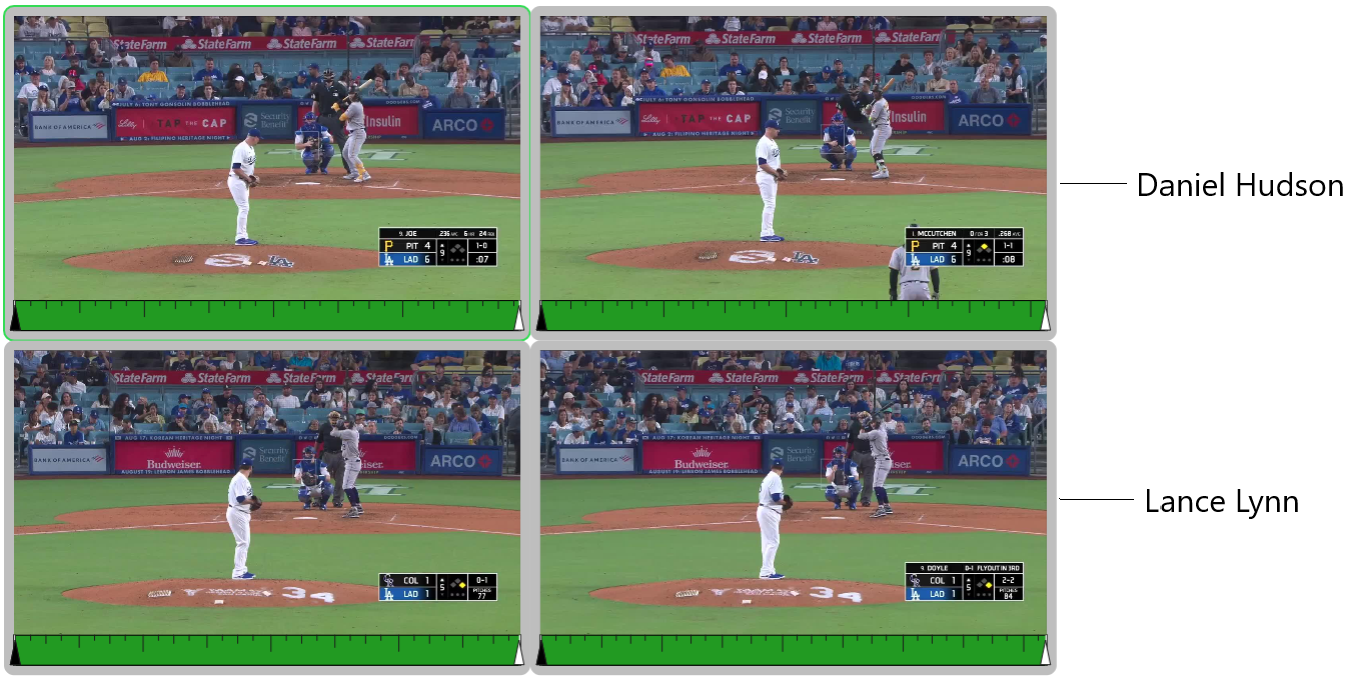
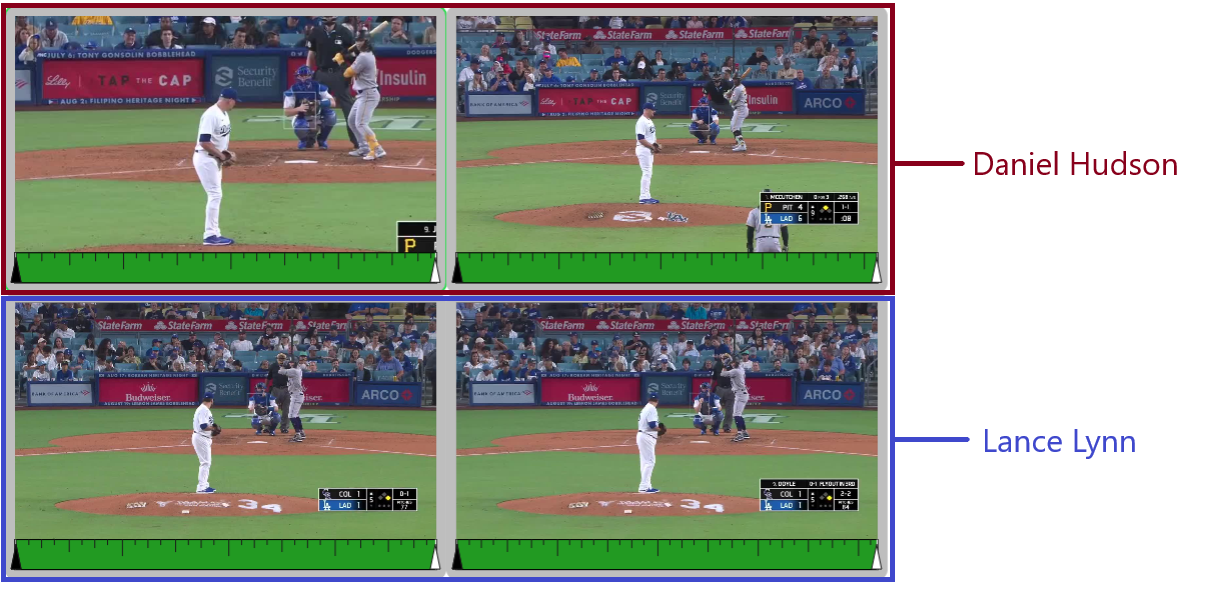
Reworked tutorial tasks to be more clear and engaging. Removed playing after scrubbing, too.

diff --git a/nodejs-timelapse-project/tutorials/tutorial-3.js b/nodejs-timelapse-project/tutorials/tutorial-3.js
@@ -1,55 +1,74 @@
 const tutorial3 = `
 <h1>Tutorial 3 - Pitch Tunneling & Break</h1>
 <p>
-You’re an MLB (major league baseball) analyst that has been recruited to analyze pitch tunneling and compare the break in pitches thrown by different players.
-Pitch tunneling is the idea that if the trajectory of two different pitches remains the same for long enough, then it will be harder for the batter to realize what the pitch type is.
-Break in a pitch refers to the amount of horizontal/vertical movement the ball exhibits along its flight path.
-Your task is to compare two separate pitchers and determine who has better pitch tunneling skill, and who has a larger break in their pitch.
+You are an MLB analyst that has been recruited to analyze pitch tunneling and compare the break in pitches thrown by different players.
+</p>
+<ul>
+<li>
+<strong>Pitch tunneling</strong>
+is the idea that if the trajectory of two different pitches remains the same for long enough, then the batter will have a harder time figuring out the pitch type of the ball.
+</li>
+<li>
+<strong>Break in a pitch</strong>
+refers to the amount of horizontal/vertical movement the ball exhibits along its flight path.
+</li>
+</ul>
+<p>
+Your task is to compare two separate pitchers and determine who is better at pitch tunneling, and who has a larger break in their pitch.
 </p>
 <p>
 Two pairs of videos have been pre-loaded into the toolkit.
-The top two videos are Daniel Hudson’s pitches.
-The bottom two videos are Lance Lynn’s pitches.
+The first two videos are Daniel Hudson’s pitches.
+The last two videos are Lance Lynn’s pitches.
 Resize the videos as you see fit.
 </p>
 <img src="./tutorials/img/tutorial-task-3-1.png" />
 <p>
-We will be overlaying the two videos, but first we need to line them up.
-We can do this automatically using a technique called coincident points.
+We want to overlay our videos, but it looks like the Daniel Hudson videos are misaligned.
+Video alignment can be done automatically using a technique called coincident points:
 </p>
 <ol>
 <li>
 Press the comma key to enter coincident pointing mode (this will highlight the canvas in blue and change your cursor to a pointer).
 </li>
 <li>
-On the first Daniel Hudson video (top left), click to place two points somewhere in the video that also appears in the second video (for simplicity, one on Daniel’s glove and one on the back of Daniel’s shoe).
+On the misaligned video (zoomed in Daniel Hudson video), click on Daniel Hudson’s glove to place your first point.
 </li>
 <li>
-Place two more points on the second video, in the same order you placed them in the first video (i.e., glove, then shoe).
+Then, click on the back of his shoe to place your second point.
 </li>
 <li>
-Once the fourth point is placed, the first video will snap to the same position as the second video.
+Go to the second Daniel Hudson video, and place two more points on his glove and shoe in the same order.
+</li>
+<li>
+Once the fourth point is placed, the first video will snap to align with the second video.
+</li>
+<li>
+Exit coincident pointing mode by pressing the comma key again.
 </li>
 </ol>
 <img src="./tutorials/img/tutorial-task-3-2.png" />
 <p>
-Repeat this process with the Lance Lynn videos. Now both videos should be lined up and ready to be overlayed.
-Exit coincident pointing mode by pressing the comma key again.
-</p>
-<p>
-Start by dragging the second Lance Lynn video on top of the first to create an overlay.
-Repeat this process with the two Daniel Hudson videos.
-Your layout may look messy now, so you can delete the original displays by selecting them and pressing Delete.
-Then, position the two overlays side-by-side like this:
+Drag one of the Daniel Hudson videos on top of the other to create an overlay.
+Repeat this process with the two Lance Lynn videos.
+Your layout will look messy now, so you can delete the original videos by selecting them and pressing Delete.
+Then, resize and position the two overlays side-by-side like this:
 </p>
 <img src="./tutorials/img/tutorial-task-3-3.png" />
 <p>
-Overlays are extremely powerful comparison tools.
-They allow the observer to view two or more videos within the same space using a transparent filter.
-Each overlay comes with three timelines: one for each independent video, and the third which controls both.
-You also can pan like in tutorial 1 to further line up the two videos (click and drag with middle mouse button).
-Try manipulating each overlay so that they are synched.
-Once you are happy with how they look, play through each overlay independently.
+Overlays are like regular videos, but there are some key differences.
+Each overlay comes with three timelines: two for each independent video, and the third which controls both.
+Try scrubbing through the bottom timeline of each overlay. Doing so will scrub through the overlayed videos.
+</p>
+<p>
+Now, scrub through each overlay until you reach the point where the pitcher releases the ball (if this happens at two different times in the overlay, scrub through each individual video to synchronize the two layers to the point of release).
+</p>
+<p>
+Note that you can also pan the top layer of the overlay by clicking and dragging the video with the middle mouse button.
+This can be used for further align the two videos.
+</p>
+<p>
+Once you are happy with how they look, play through each overlay independently and compare.
 </p>
 <ul>
 <li>
@@ -60,6 +79,12 @@ Who has a more consistent flight path?
 </li>
 <li>
 Who has a larger break in their pitch?
+</li>
+<li>
+Were the overlay techniques helpful in your comparison? What could make them feel better?
+</li>
+<li>
+Which technique did you find most useful?
 </li>
 </ul>
 <p>

diff --git a/nodejs-timelapse-project/tutorials/tutorial-1.js b/nodejs-timelapse-project/tutorials/tutorial-1.js
@@ -5,32 +5,33 @@ Picture yourself as a plant breeder researching the vegetative growth of the Ara
 You’ve recorded time-lapsed video of 12 separate plants throughout their growth period which you’d like to compare.
 </p>
 <p>
-The 12 videos have been pre-loaded into the system. By default, the videos are placed in a grid with static dimensions.
-Unless you have a huge monitor, chances are that not all the videos are in full display.
-To fix this, toggle the “Dynamic” option under Workspace Layout in the middle of the webpage header.
+The 12 videos have been pre-loaded into the system.
+By default, the videos are placed in a grid with static dimensions.
+If your screen is too small, this may mean that not all the videos are in full display.
+To fix this, or if you want to resize the videos anyway, toggle the “Dynamic” option under Workspace Layout in the middle of the webpage header.
 </p>
 <img src="./tutorials/img/tutorial-task-1-1.png" />
 <p>
 Now, hover over the bottom right corner of a video and click & drag to resize a single video.
-Or to save time, hold control while you drag to resize all displays. Once you’ve found a preferable size, we can continue.
+Or to save time, hold control while you drag to resize all displays.
+Once you’ve found a preferable size, we can continue.
 </p>
 <img src="./tutorials/img/tutorial-task-1-2.jpg" />
 <strong style="text-align: center; font-size: small;">Note: Does not have to look like the above image.
 The resize technique is meant to allow you customize your layout to whatever you prefer.</strong> 
 <p>
-There are two methods to playing through a video. The first is the manual method that we call "scrubbing”.
-Under each video there are green timelines. Clicking and dragging on this timeline will play through the video.
-The second method is a simple play feature. Select a display by clicking on it (this will highlight it in green) and press spacebar.
-The video will auto-play until the end, at which point you can reset the position and continue playing.
+You can play through a video by selecting it (click it) and pressing spacebar, or by scrubbing through it.
+Scrubbing refers to manually clicking and dragging places within the green timeline below the video to maneuver the video itself.
+Once a video has ended, press spacebar again to replay it.
 </p>
 <img src="./tutorials/img/tutorial-task-1-3.png" />
 <p>
 Videos can be played individually or all at once using the global timeline at the bottom of the screen.
-Scrubbing works the same for the global timeline, and you can activate its auto-play feature by unselecting any selected videos (by clicking on them) and pressing spacebar.
+Scrubbing works the same for the global timeline, or you can play it automatically by pressing control + spacebar. 
 </p>
 <p>
 Now you can begin a comparative analysis of each of the videos.
-Play through the videos at your leisure and note the similarities/differences you notice as your eye moves from video to video.
+Play through the videos at your leisure and note the similarities/differences you notice as your eye moves from video to video. 
 <ul>
 <li>When are they the same?</li>
 <li>How long are they the same?</li>
@@ -40,13 +41,19 @@ Play through the videos at your leisure and note the similarities/differences yo
 </ul>
 </p>
 <p>
-If you find it helpful, there is also a feature that allows you to move displays around. Click and drag a video you want to move and hover it over the target position for 2 seconds until the two displays switch positions. If you release early, an overlay will be created. This will be covered in tutorial 3.
+If you find it helpful, there is also a feature that allows you to move displays around.
+Click and drag a video you want to move and hover it over the target position for 2 seconds until the two displays switch positions.
+If you release early, an overlay will be created.
+This will be covered in tutorial 3.
 </p>
 <img src="./tutorials/img/tutorial-task-1-4.jpg" />
 <p>
-You can zoom in on videos by scrolling while hovering over the video, and you can pan a video by clicking and dragging a video using the middle mouse button. These utility techniques are in place to aid in your comparison.
+You can zoom by scrolling while hovering over the video, and you can pan by clicking and dragging a video using the middle mouse button.
+These utility techniques are in place to aid in your comparison.
 </p>
-<p>
-Once you are satisfied with your analysis, you can leave this page.
-</p>
+<ul>
+<li>What are the most significant details you saw while comparing these plant videos?</li>
+<li>Which plant seemed to grow the best? Which one grew the worst?</li>
+<li>Which techniques helped you the most in picking out these details?</li>
+</ul>
 `;

diff --git a/nodejs-timelapse-project/tutorials/tutorial-2.js b/nodejs-timelapse-project/tutorials/tutorial-2.js
@@ -18,7 +18,7 @@ Toggle the “Timestamp/Label” checkbox in the middle of the webpage header to
 <p>
 Now you can begin playing through all the videos. Scrub the global timeline to play all the videos simultaneously.
 Once you see that a crop is beginning to flower, pause.
-This is a significant point in the video that we should probably mark in the timeline.
+This is a significant point in the video that you should probably mark in the timeline.
 To do this, select the video and click “Save Annotation” in the right side of the webpage header.
 </p>
 <img src="./tutorials/img/tutorial-task-2-3.png" />
@@ -29,32 +29,42 @@ Click Ok, and now you will see a mark appear within timeline. Hovering over the 
 </p>
 <img src="./tutorials/img/tutorial-task-2-4.png" />
 <p>
-Now that we have that position marked, we can lock it in the time being to maintain the position within the video.
+Now that you have that position marked,  lock it to maintain the position within the video.
 Click the “Lock” checkbox in the right side of the webpage header.
 This will lock the video in its current state, greying out the video timeline.
 </p>
 <img src="./tutorials/img/tutorial-task-2-5.png" />
 <p>
-Repeat these marking and locking steps with the remaining two crop videos.
-Once you’ve got your flowering start positions, unlock the displays.
-Once again, use the mark and lock procedure to find the points in each video where the crop has reached its peak (i.e., when it appears to stop growing).
-Now, you should have two marks in each display.
-Click back and forth between the two marks of each video and observe the timestamps.
+Repeat these steps with the remaining two crop videos.
+Once you’ve got your flowering start positions, find and mark the points in each video where the crop has reached its peak (i.e., when it appears to stop growing).
+Now, you should have two marks in each video timeline.
+Click back and forth between the two marks of each video and observe the timestamps. 
 </p>
 <ul>
 <li>Which crop flowered first?</li>
 <li>Which crop finished flowering first?</li>
-<li>Which crop had a larger/longer flowering cycle?</li>
+<li>Approximately, which crop had a larger/longer flowering cycle?</li>
 </ul>
 <p>
-We can also remove the excess video to only include the flowering cycles. To do this, begin by clicking on your start position in a video, and right click the left white marker. This will snap the marker to your current position. Navigate to your end position and right click the right white marker to repeat this process with the end position. We have now created a subset of the original video.
+You can also remove the excess video to only include the flowering cycles.
+To do this, begin by clicking on your start position in a video, and right click the left white marker.
+This will snap the marker to your current position.
+Click your end position, then right click the right white marker to repeat this process. 
+You have now created a subset of the original video.
 </p>
 <img src="./tutorials/img/tutorial-task-2-6.png" />
 <p>
-Once you’ve subset each video, try scubbing them all again. You will notice that even though the lengths of each video are different, each video plays start to finish in the same amount of time. This is a technique called normalization. Now you can play through each flowering cycle without worrying about excess video. If you want to play through each video without normalization, simply toggle the normalize checkbox in the middle of the webpage header.
+Once you’ve subset each video, scrub through all the videos and compare the full flowering cycles.
+You will notice that even though the lengths of each video are different, each video plays start to finish in the same amount of time.
+This is a technique called normalization.
+</p>
+<p>
+If you want to play through each video without normalization, simply toggle the normalize checkbox in the middle of the webpage header.
 </p>
 <img src="./tutorials/img/tutorial-task-2-7.png" />
-<p>
-Once you are satisfied with your analysis, you can leave this page.
-</p>
+<ul>
+<li>Discuss your experience comparing the flowering cycle as a subset versus a full video.</li>
+<li>Did setting the start/end markers aid you in comparing the flowering cycles? Why or why not? </li>
+<li>Did you prefer a normalized or an unnormalized system to accomplish this task? Why?</li>
+</ul>
 `;

diff --git a/nodejs-timelapse-project/tutorials/tutorial-4.js b/nodejs-timelapse-project/tutorials/tutorial-4.js
@@ -2,7 +2,7 @@ const tutorial4 = `
 <h1>Tutorial 4</h1>
 <p>
 Now you can picture yourself as a climate change researcher.
-For this task, you will be looking for trends in the depletion of arctic sea ice over the last 40 years.
+For this task, you will be looking for trends in arctic sea ice over the last 40 years.
 Daily satellite images of the north pole have been taken biannually to aid you in your research.
 These images have been compiled into time-lapsed videos that have been pre-loaded within the comparison toolkit.
 The videos span 1982-2022.
@@ -11,12 +11,11 @@ The videos span 1982-2022.
 <p>
 The videos have been placed in a grid layout with small dimensions to allow you to view everything at once.
 This is meant to aid in comparison by reducing the strain on the user’s memory.
-To better explain this concept, let’s test it out on the arctic ice videos.
+Play through all videos at the same time, and as they play, move your eyes from video to video.
 </p>
 <p>
-Play through all videos at the same time, and as they play, move your eyes from video to video.
-Notice that it is easier find differences now that the space between videos has been reduced.
-Also, the stable backgrounds in these videos improve the technique by reducing the details that need to be tracked by the observer’s eye.
+Notice that it is easier to find differences now that the space between videos has been reduced.
+Also, the consistent backgrounds in these videos improve the technique by reducing the details that need to be tracked by the observer’s eye.
 </p>
 <p>
 Play through the videos multiple times and see if you can spot any trends occurring.
@@ -29,20 +28,21 @@ Does the shape/size of the sea ice change over the years?
 Does the density of the ice change (white is high density, blue is low density)?
 </li>
 <li>
-Are there any specific areas that were dense with ice in the 80s that are not as dense now?
+What might this mean?
+</li>
+<li>
+Are there any specific areas that were dense with ice in the 80s (first 4 videos) that are not as dense in 2022 (the last video)?
 </li>
 </ul>
 <p>
-The last question is more specific and may be harder to answer since finding detail in small videos can be difficult.
-An additional technique can now be utilized to support your comparison.
-This technique is called shadow markers.
-It allows you to place a static marker anywhere within a video, and this marker will show up in all other displays.
-The marker can be used to center your focus on specific areas you with to compare in every video.
+The last question is more specific and may be harder to answer because your eye must move a farther distance.
+Another technique can now be utilized to help with this.
+This technique is called shadow markers, and it allows you to place a mark in a video that will appear in all other videos, too.
 </p>
 <p>
 Press the period key.
 This will turn on shadow marking mode, highlighting your canvas in yellow and changing your cursor.
-Now, find an area in one of the earlier videos that you’d like to track across all the videos.
+Now, find an area in one of the earlier videos that you’d like to track.
 Click on that location, and a marker will show up in the video and all other videos, too.
 Press the period key again to exit shadow marking mode.
 </p>
@@ -50,11 +50,11 @@ Press the period key again to exit shadow marking mode.
 <p>
 Play through each video again and check if the ice density in the area you chose changes over the years.
 The shadow marker acts as a focal point to draw your eye to your desired area of focus on each video.
-This was designed to hasten the search for specific areas in each video.
-Now you can try placing the shadow marker somewhere else.
-Repeat this process as many times as you wish.
 </p>
-<p>
-Once you are satisfied with your analysis, you can leave this page.
-</p>
+<ul>
+<li>Did the density of your chosen location change over the years?</li>
+<li>Did the shadow marker help you come to this conclusion?</li>
+<li>What could be done to improve the shadow marking technique?</li>
+<li>Did you find it easier to compare multiple images that were smaller and more similar? Why or why not?</li>
+</ul>
 `;

diff --git a/nodejs-timelapse-project/canvas.js b/nodejs-timelapse-project/canvas.js
@@ -149,6 +149,12 @@ function startPlayInterval(scrollbar, frameRate = 10) {
     }, Math.floor(1000 / frameRate));
 }
 
+/* Clear all playing interval timers and empty the timer object */
+function clearAllPlayingIntervals() {
+    Object.keys(playingTimers).forEach(id => clearInterval(playingTimers[id]));
+    playingTimers = {};
+}
+
 function mouseMoved(event, mx = mouseX, my = mouseY) {
     let hit = null;
     switch (currentState) {
@@ -267,6 +273,8 @@ function mousePressed(event, mx = mouseX, my = mouseY) {
         case STATE.READY:
             if (hit = model.checkScrollbarHit(mx, my)) {
                 imodel.setFocused(hit);
+                /* Clear playing timers when scrubbing */
+                clearAllPlayingIntervals();
                 let startFocused = !imodel.focused.checkMainPositionHit(mx) && imodel.focused.checkStartHit(mx);
                 let endFocused = !imodel.focused.checkMainPositionHit(mx) && !imodel.focused.checkStartHit(mx) && imodel.focused.checkEndHit(mx);
                 if (startFocused) {
@@ -488,8 +496,7 @@ function keyPressed(event) {
                     scrollbar = imodel.selection.getMainScrollbar();
                 } else if (!playingIds.includes(scrollbar.id)) {
                     /* Ensure no other timers are running when the global scrollbar starts playing */
-                    playingIds.forEach(id => clearInterval(playingTimers[id]));
-                    playingTimers = {};
+                    clearAllPlayingIntervals();
                 }
                 if (playingIds.includes(scrollbar.id)) {
                     clearInterval(playingTimers[scrollbar.id]);
@@ -521,6 +528,11 @@ function keyPressed(event) {
                 currentState = STATE.COINCIDENT_POINTING;
                 pinoLog("trace", "Entered coincident pointing mode");
                 return false;
+            } else if (keyCode === 82) {
+                /* Handle 'r' key pressed events */
+                clearAllPlayingIntervals();
+                model.setIndex(model.globalScrollbar, 0);
+                model.displays.forEach(display => model.setIndex(display.getMainScrollbar(), 0));
             }
             break;
         case STATE.SHADOW_MARKER:
